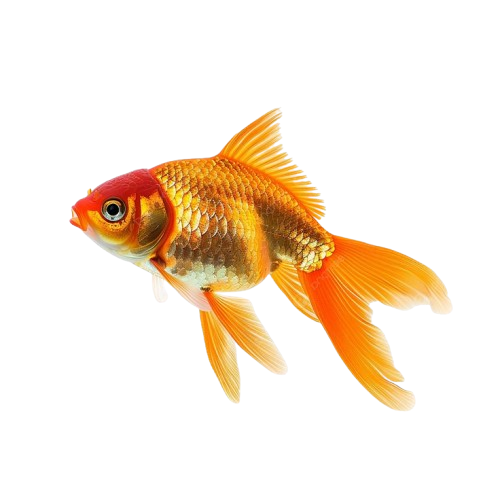
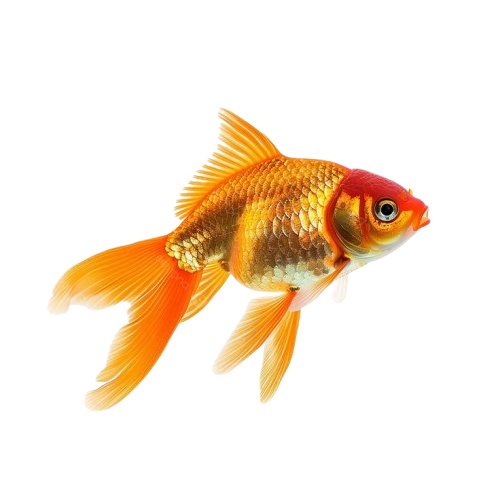
[ADD] change of direction

Changed region(s): [[0.09, 0.21, 0.9, 0.84]]

diff --git a/Aquarium/Src/Goldfish.cpp b/Aquarium/Src/Goldfish.cpp
@@ -8,7 +8,9 @@ void Goldfish::Init(GLuint texture, float startX, float startY, float w, float h
     y = startY;
     width = w;
     height = h;
+    facingRight = true;
     MakeQuad();
+
 }
 
 void Goldfish::Update(GLFWwindow* window) {
@@ -16,6 +18,24 @@ void Goldfish::Update(GLFWwindow* window) {
     if (glfwGetKey(window, GLFW_KEY_DOWN) == GLFW_PRESS) y -= speed;
     if (glfwGetKey(window, GLFW_KEY_LEFT) == GLFW_PRESS) x -= speed;
     if (glfwGetKey(window, GLFW_KEY_RIGHT) == GLFW_PRESS) x += speed;
+
+    bool movedLeft = false;
+    bool movedRight = false;
+
+    if (glfwGetKey(window, GLFW_KEY_UP) == GLFW_PRESS) y += speed;
+    if (glfwGetKey(window, GLFW_KEY_DOWN) == GLFW_PRESS) y -= speed;
+
+    if (glfwGetKey(window, GLFW_KEY_LEFT) == GLFW_PRESS) {
+        x -= speed;
+        movedLeft = true;
+    }
+    if (glfwGetKey(window, GLFW_KEY_RIGHT) == GLFW_PRESS) {
+        x += speed;
+        movedRight = true;
+    }
+
+    if (movedLeft && facingRight) facingRight = false;
+    if (movedRight && !facingRight) facingRight = true;
 
     if (x - width < -1.0f) x = -1.0f + width;
     if (x + width > 1.0f) x = 1.0f - width;
@@ -27,19 +47,24 @@ void Goldfish::Update(GLFWwindow* window) {
 }
 
 void Goldfish::Render(GLuint shader) {
-    glUseProgram(shader);
-    glBindTexture(GL_TEXTURE_2D, tex);
+
+    float u1 = facingRight ? 0.0f : 1.0f;
+    float u2 = facingRight ? 1.0f : 0.0f;
 
     float quad[] = {
-        x - width, y - height, 0, 0,
-        x + width, y - height, 1, 0,
-        x + width, y + height, 1, 1,
-        x - width, y + height, 0, 1
+        x - width, y - height,  u1, 0,
+        x + width, y - height,  u2, 0,
+        x + width, y + height,  u2, 1,
+        x - width, y + height,  u1, 1
     };
+
+    glUseProgram(shader);
+    glBindTexture(GL_TEXTURE_2D, tex);
 
     glBindVertexArray(VAO);
     glBindBuffer(GL_ARRAY_BUFFER, VAO);
     glBufferSubData(GL_ARRAY_BUFFER, 0, sizeof(quad), quad);
+
     glDrawArrays(GL_TRIANGLE_FAN, 0, 4);
 }
 

diff --git a/Aquarium/Src/Nemo.cpp b/Aquarium/Src/Nemo.cpp
@@ -9,6 +9,7 @@ void Nemo::Init(GLuint texture, float startX, float startY, float w, float h) {
     width = w;
     height = h;
     MakeQuad();
+    facingRight = true;
 }
 
 void Nemo::Update(GLFWwindow* window) {
@@ -17,6 +18,20 @@ void Nemo::Update(GLFWwindow* window) {
     if (glfwGetKey(window, GLFW_KEY_A) == GLFW_PRESS) x -= speed;
     if (glfwGetKey(window, GLFW_KEY_D) == GLFW_PRESS) x += speed;
 
+    bool movedLeft = false;
+    bool movedRight = false;
+
+    if (glfwGetKey(window, GLFW_KEY_A) == GLFW_PRESS) {
+        x -= speed;
+        movedLeft = true;
+    }
+    if (glfwGetKey(window, GLFW_KEY_D) == GLFW_PRESS) {
+        x += speed;
+        movedRight = true;
+    }
+    if (movedLeft && facingRight) facingRight = false;
+    if (movedRight && !facingRight) facingRight = true;
+
     if (x - width < -1.0f) x = -1.0f + width;
     if (x + width > 1.0f) x = 1.0f - width;
 
@@ -24,23 +39,28 @@ void Nemo::Update(GLFWwindow* window) {
     if (y + height > topLimit) y = topLimit - height;
 
     if (y - height < -1.0f) y = -1.0f + height;
+
 }
 
-
 void Nemo::Render(GLuint shader) {
+
+    float u1 = facingRight ? 0.0f : 1.0f;
+    float u2 = facingRight ? 1.0f : 0.0f;
+
+    float quad[] = {
+        x - width, y - height,  u1, 0,
+        x + width, y - height,  u2, 0,
+        x + width, y + height,  u2, 1,
+        x - width, y + height,  u1, 1
+    };
+
     glUseProgram(shader);
     glBindTexture(GL_TEXTURE_2D, tex);
 
-    float quad[] = {
-        x - width, y - height, 0, 0,
-        x + width, y - height, 1, 0,
-        x + width, y + height, 1, 1,
-        x - width, y + height, 0, 1
-    };
-
     glBindVertexArray(VAO);
-    glBindBuffer(GL_ARRAY_BUFFER, VAO);  // update buffer
+    glBindBuffer(GL_ARRAY_BUFFER, VAO);
     glBufferSubData(GL_ARRAY_BUFFER, 0, sizeof(quad), quad);
+
     glDrawArrays(GL_TRIANGLE_FAN, 0, 4);
 }
 

diff --git a/Aquarium/Header/Goldfish.h b/Aquarium/Header/Goldfish.h
@@ -9,6 +9,7 @@ public:
     float speed;
     GLuint tex;
     unsigned int VAO;
+    bool facingRight;
 
     Goldfish();
     void Init(GLuint texture, float startX, float startY, float w = 0.1f, float h = 0.1f);

diff --git a/Aquarium/Header/Nemo.h b/Aquarium/Header/Nemo.h
@@ -9,6 +9,7 @@ public:
     float speed;
     GLuint tex;
     unsigned int VAO;
+    bool facingRight;
 
     Nemo();
     void Init(GLuint texture, float startX, float startY, float w = 0.1f, float h = 0.1f);
